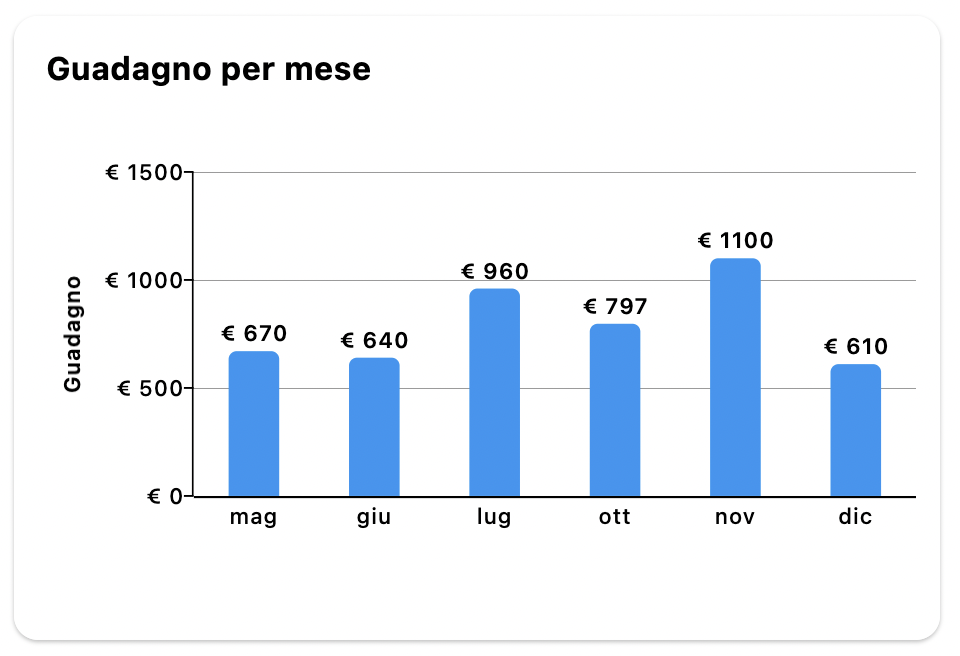
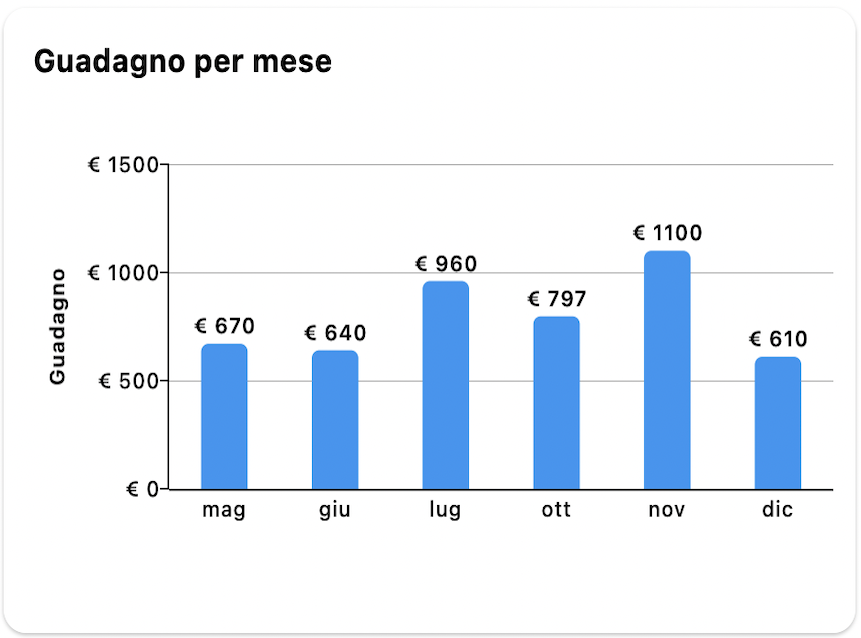
Replace statistics charts with matching-size WebP images

diff --git a/index_en.html b/index_en.html
@@ -142,8 +142,8 @@
 </div>
 <div class="stats-media" data-media-slot="statistics" role="group" tabindex="0" aria-label="Real Tickness insights charts">
 <div class="stats-slides">
-<img class="stats-slide is-active" src="images/img_grafico_guadagno.webp" alt="Real Tickness chart with Italian labels: monthly earnings from €610 to €1,100, shown in six bars from May to December." width="960" height="656" decoding="async">
-<img class="stats-slide" src="images/img_grafico_importo_speso_per_mese.webp" alt="Real Tickness chart with Italian labels: monthly spending of €693.96 in August, €1,340.46 in September and €674.53 in October." width="878" height="680" decoding="async">
+<img class="stats-slide is-active" src="images/img_grafico_guadagno.webp" alt="Real Tickness chart with Italian labels: monthly earnings from €610 to €1,100, shown in six bars from May to December." width="861" height="638" decoding="async">
+<img class="stats-slide" src="images/img_grafico_importo_speso_per_mese.webp" alt="Real Tickness chart with Italian labels: monthly spending of €693.96 in August, €1,340.46 in September and €674.53 in October." width="861" height="638" decoding="async">
 </div>
 </div>
 </section>

diff --git a/index.html b/index.html
@@ -142,8 +142,8 @@
 </div>
 <div class="stats-media" data-media-slot="statistics" role="group" tabindex="0" aria-label="Grafici reali delle statistiche di Tickness">
 <div class="stats-slides">
-<img class="stats-slide is-active" src="images/img_grafico_guadagno.webp" alt="Grafico reale di Tickness: guadagno per mese, da 610 € a 1.100 €, con sei colonne da maggio a dicembre." width="960" height="656" decoding="async">
-<img class="stats-slide" src="images/img_grafico_importo_speso_per_mese.webp" alt="Grafico reale di Tickness: importo speso per mese, 693,96 € ad agosto, 1.340,46 € a settembre e 674,53 € a ottobre." width="878" height="680" decoding="async">
+<img class="stats-slide is-active" src="images/img_grafico_guadagno.webp" alt="Grafico reale di Tickness: guadagno per mese, da 610 € a 1.100 €, con sei colonne da maggio a dicembre." width="861" height="638" decoding="async">
+<img class="stats-slide" src="images/img_grafico_importo_speso_per_mese.webp" alt="Grafico reale di Tickness: importo speso per mese, 693,96 € ad agosto, 1.340,46 € a settembre e 674,53 € a ottobre." width="861" height="638" decoding="async">
 </div>
 </div>
 </section>
